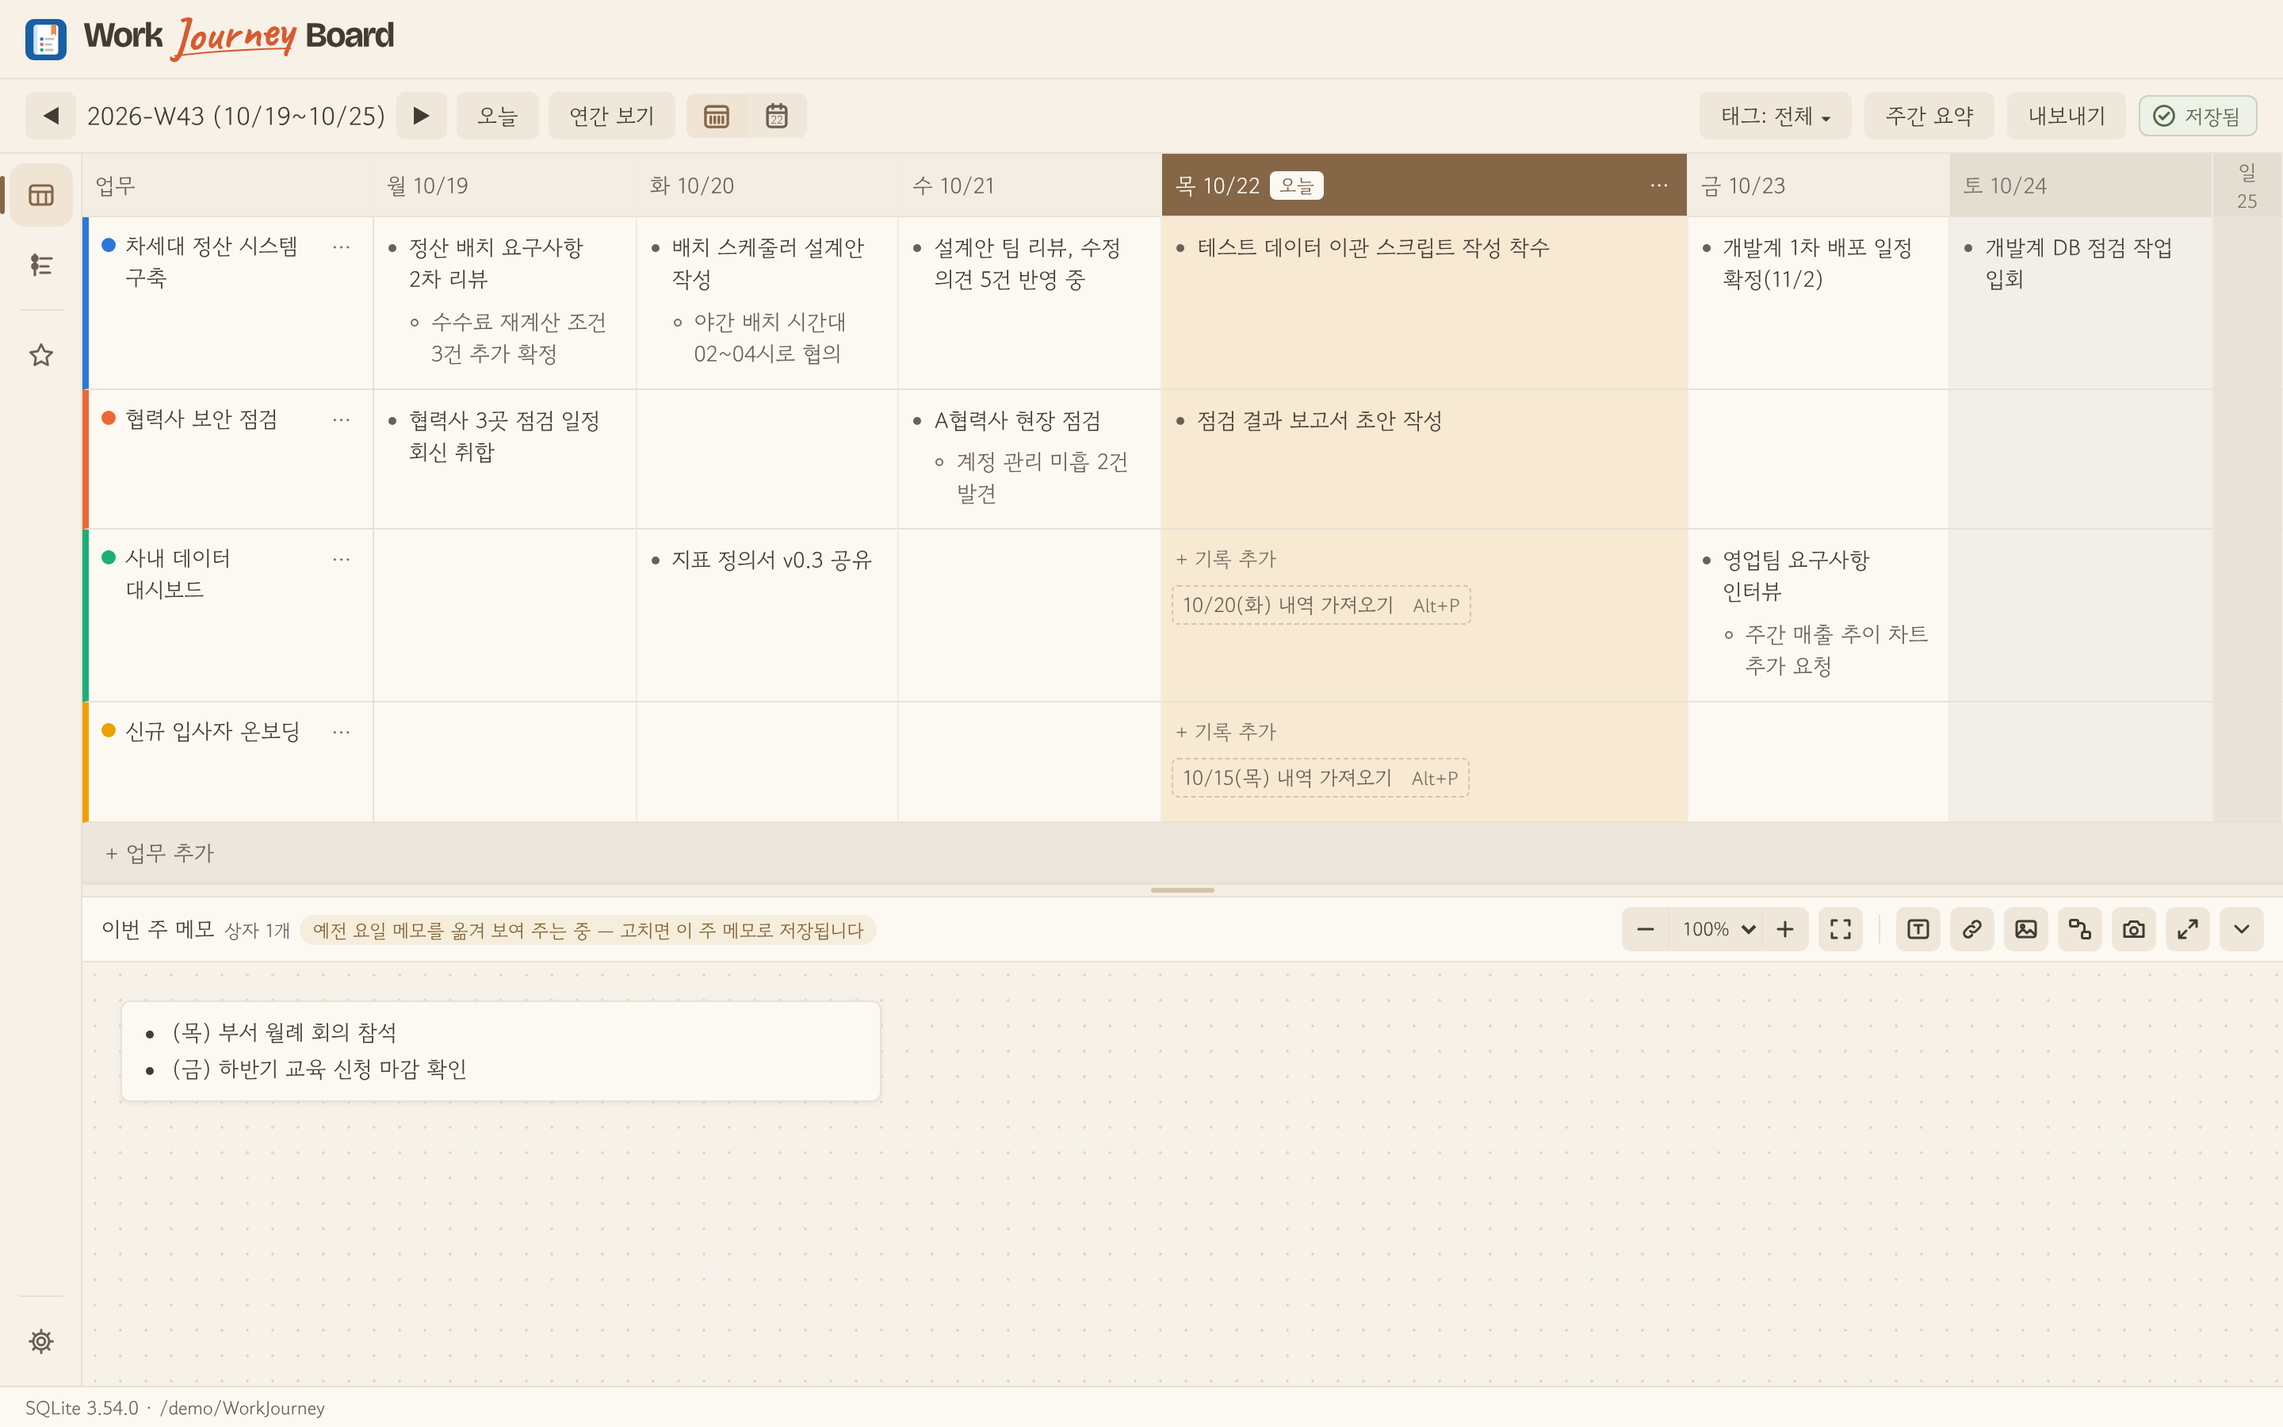
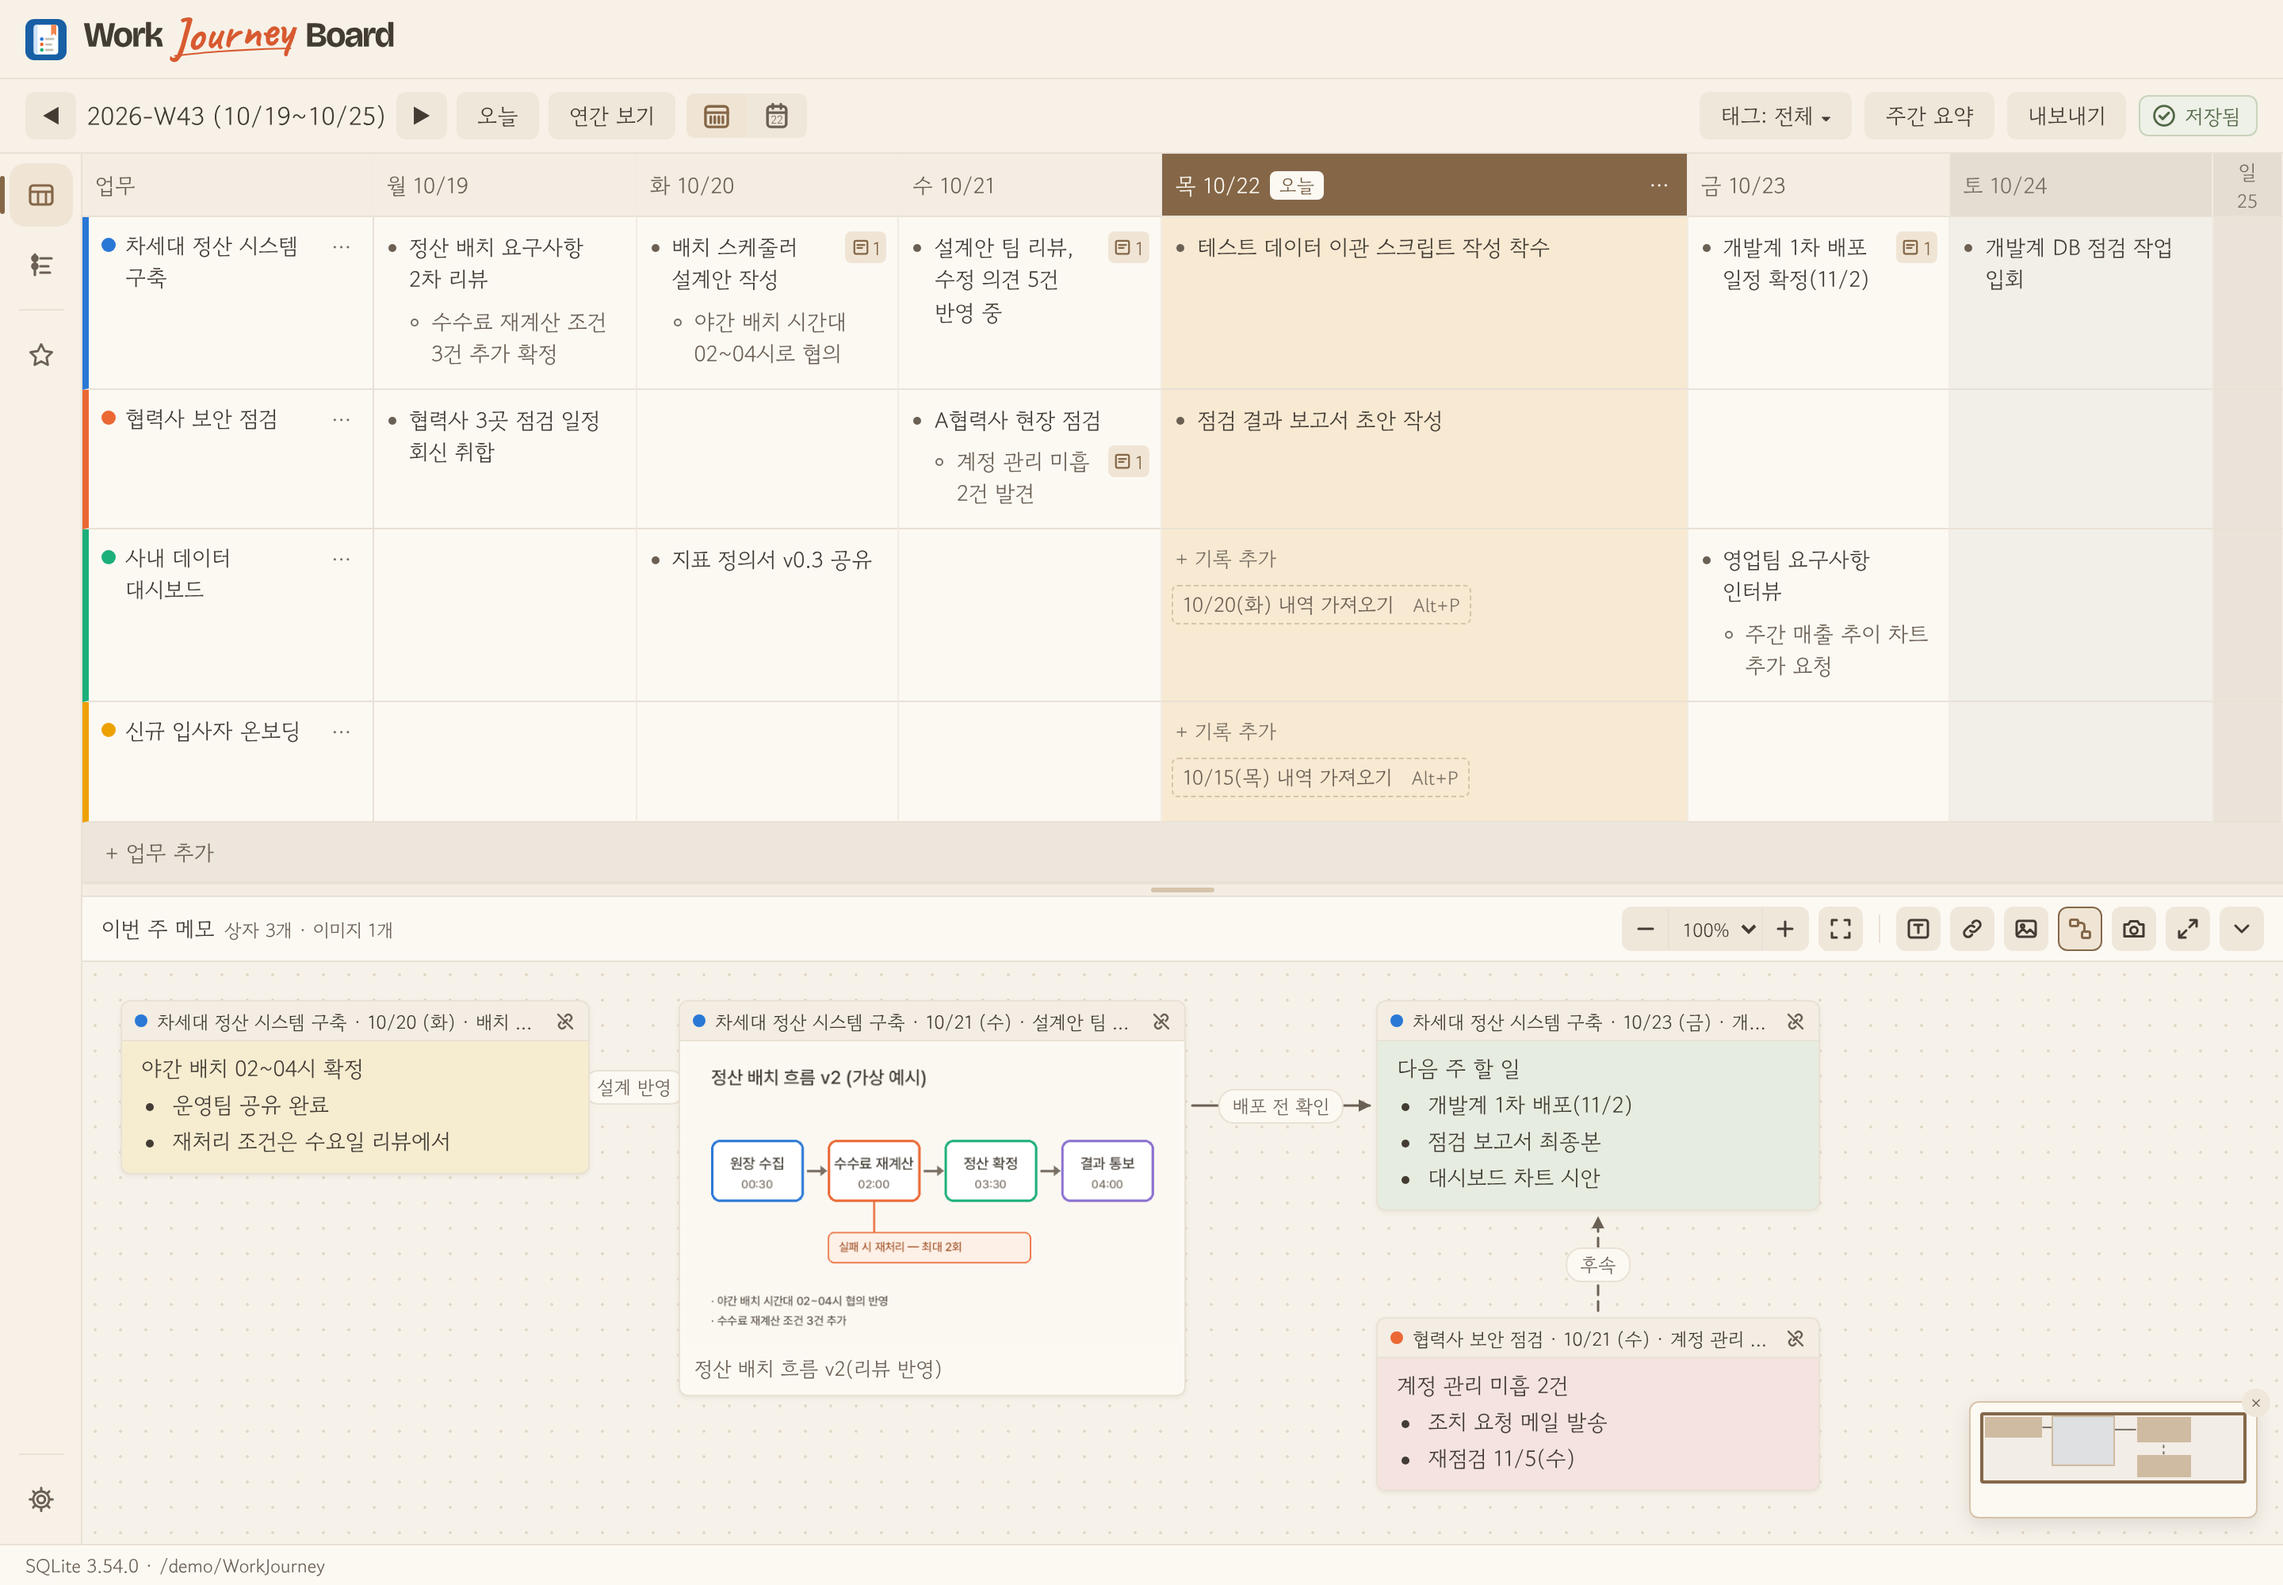
docs: README 머리(아이콘 위·타이틀 아래 1.5배)·대표 화면을 메모 보드(업무 연결·이미지 메모·관계선) 예시로, 소개 사이트 내려받기 안내 개조식·관리자 권한 문구 제거
Claude-Session: https://claude.ai/code/session_01CEskZPS32ZwwyCurFibJtk

diff --git a/site/style.css b/site/style.css
@@ -4,7 +4,7 @@
 body{margin:0;background:var(--paper);color:var(--ink);font-family:var(--sans);font-size:16px;line-height:1.7;word-break:keep-all;overflow-wrap:anywhere}
 a{color:inherit;text-decoration:none}button{font:inherit}img{display:block;max-width:100%}p,h1,h2,h3{margin:0}h1,h2,h3,strong,b{font-weight:400}button,a{-webkit-tap-highlight-color:transparent}a:focus-visible,button:focus-visible{outline:2px solid #856748;outline-offset:4px}.wrap{width:min(100% - 96px,1260px);margin-inline:auto}.skip-link{position:fixed;left:16px;top:-80px;background:#fff;padding:10px 16px;z-index:100}.skip-link:focus{top:12px}
 .site-header{height:94px;border-bottom:1px solid rgba(121,108,91,.13);background:var(--paper)}.header-inner{height:100%;display:flex;align-items:center;justify-content:space-between;gap:24px}.brand{display:flex;align-items:center;gap:12px;flex-shrink:0}.brand-icon{width:38px;height:38px}.brand-wordmark{width:198px;height:auto}.header-nav{display:flex;align-items:center;gap:34px;font-size:13px}.nav-link{color:#6e655c;transition:color .16s}.nav-link:hover,.text-link:hover{color:var(--clay)}.button{display:inline-flex;justify-content:center;align-items:center;gap:24px;border-radius:5px;white-space:nowrap;transition:background .18s,color .18s,transform .18s}.button span{font-family:var(--serif);font-size:18px}.button:hover{transform:translateY(-2px)}.button-small{background:#eae0d1;padding:10px 16px;font-size:13px}.button-small:hover{background:#dfd1bd}.button-primary{background:#775a43;color:#fffaf3;padding:16px 21px;font-size:14px}.button-primary:hover{background:#5f4737}.text-link{display:inline-flex;gap:12px;align-items:center;color:#635b52;font-size:14px;border-bottom:1px solid #d4c9b9;padding-bottom:5px;transition:color .18s,border-color .18s}.text-link:hover{border-color:var(--clay)}
-.hero{min-height:733px;display:grid;grid-template-columns:.9fr 1.15fr;align-items:center;gap:60px;padding-top:76px;padding-bottom:105px}.hero-copy{padding-bottom:5px}.eyebrow{display:flex;align-items:center;gap:10px;font-size:12px;letter-spacing:.025em;color:#8b7868}.eyebrow-dot,.tiny-dot{width:7px;height:7px;border-radius:50%;background:#ba8567;display:inline-block;flex-shrink:0}.hero h1{font-size:clamp(40px,4.2vw,61px);line-height:1.3;letter-spacing:-.055em;margin:27px 0 24px}.hero h1 em,.section-heading h2 em,.reflect-copy h2 em,.privacy-heading h2 em,.closing h2 em{font-style:normal;color:var(--clay)}.hero-description{font-size:16px;line-height:2;color:#6c655b}.hero-actions{display:flex;align-items:center;gap:28px;margin-top:39px;flex-wrap:wrap}.download-caption{display:flex;align-items:center;gap:8px;margin-top:22px;color:#8a8074;font-size:12px}.tiny-dot{width:5px;height:5px;background:#a4a994}.caption-divider{color:#c5bbae}
+.hero{min-height:733px;display:grid;grid-template-columns:.9fr 1.15fr;align-items:center;gap:60px;padding-top:76px;padding-bottom:105px}.hero-copy{padding-bottom:5px}.eyebrow{display:flex;align-items:center;gap:10px;font-size:12px;letter-spacing:.025em;color:#8b7868}.eyebrow-dot,.tiny-dot{width:7px;height:7px;border-radius:50%;background:#ba8567;display:inline-block;flex-shrink:0}.hero h1{font-size:clamp(40px,4.2vw,61px);line-height:1.3;letter-spacing:-.055em;margin:27px 0 24px}.hero h1 em,.section-heading h2 em,.reflect-copy h2 em,.privacy-heading h2 em,.closing h2 em{font-style:normal;color:var(--clay)}.hero-description{font-size:16px;line-height:2;color:#6c655b}.hero-actions{display:flex;align-items:center;gap:28px;margin-top:39px;flex-wrap:wrap}.download-caption{display:flex;flex-direction:column;gap:6px;margin:22px 0 0;padding:0;list-style:none;color:#8a8074;font-size:12px}.download-caption li{display:flex;align-items:center;gap:8px}.download-caption li::before{content:"";width:5px;height:5px;border-radius:50%;background:#a4a994;flex-shrink:0}.tiny-dot{width:5px;height:5px;background:#a4a994}.caption-divider{color:#c5bbae}
 .hero-art{position:relative;padding:42px 0 37px 26px;min-width:0}.hero-art:before{content:'';position:absolute;inset:0 0 0 28px;background:#f1e9dc;border-radius:47% 46% 3% 3% / 26% 26% 2% 2%;z-index:-1}.hero-art-note{position:absolute;z-index:2}.top-note{top:6px;right:20px;color:#a8795c;display:flex;align-items:center;gap:8px}.handwritten{font:italic 20px var(--serif);letter-spacing:-.03em}.hand-arrow{font-family:var(--serif);font-size:27px}.bottom-note{left:-10px;bottom:8px;display:flex;align-items:center;gap:13px;background:#fcf9f3;box-shadow:0 8px 28px rgba(67,55,41,.09);padding:14px 20px;border-radius:4px;font-size:12px;line-height:1.7;color:#766b5e}.bottom-note b{color:#4d443b}.note-star{font-size:26px;color:#bb8a66}.mock-caption{text-align:right;font-size:10px;color:#8d8174;position:absolute;bottom:14px;right:16px}
 .app-window{background:#fdfbf7;border:1px solid #e9e1d5;border-radius:9px;overflow:hidden;box-shadow:0 25px 70px rgba(75,57,37,.13),0 4px 14px rgba(75,57,37,.04)}.mock-titlebar{height:44px;display:flex;align-items:center;justify-content:space-between;padding:0 16px;background:#f8f3eb;border-bottom:1px solid #eee7dd}.mock-brand{display:flex;align-items:center;gap:7px;font:11px var(--serif);color:#4c443c}.window-controls{display:flex;gap:5px}.window-controls i{width:6px;height:6px;border-radius:50%;background:#d7cec1}.mock-toolbar{display:flex;justify-content:space-between;align-items:end;padding:19px 18px 14px}.mock-toolbar div{display:grid;gap:2px}.mock-kicker{font:9px var(--serif);letter-spacing:.13em;color:#a49685}.mock-toolbar strong{font-size:15px}.mock-range{font:10px var(--serif);color:#8a7c6c}.mock-calendar{display:grid;grid-template-columns:1.05fr repeat(2,1fr) 1.22fr repeat(2,1fr);padding:0 18px;color:#756b5e}.mock-label,.mock-day{height:36px;display:flex;align-items:center;justify-content:center;gap:4px;font-size:10px;border-bottom:1px solid #e9e2d7}.mock-label{justify-content:flex-start}.mock-day b{font-weight:400}.mock-day small{font:10px var(--serif)}.mock-day.current{color:#8c6545}.mock-day.current span{font-size:8px;color:#a67b5a}.mock-task{display:flex;gap:6px;align-items:flex-start;padding:14px 4px 9px 0;font-size:10px;line-height:1.5;border-bottom:1px solid #eee8df;color:#4b453c}.mock-task small{font-size:8px;color:#a29789}.point{display:inline-block;width:6px;height:6px;flex-shrink:0;border-radius:50%;margin-top:.5em}.p-blue{background:#758da7}.p-orange{background:#c98b6b}.p-green{background:#88a18b}.mock-cell{font-size:9px;line-height:1.6;min-height:76px;padding:13px 5px 8px;border-bottom:1px solid #eee8df;border-left:1px solid #f4f0e9}.mock-cell.selected{background:#f5ede1;color:#514a40}.mock-chip{display:block;margin-top:6px;color:#a28d76;font-size:8px;font-style:normal}.mock-memo{padding:15px 18px 9px}.mock-memo-head{display:flex;justify-content:space-between;color:#8d8172;font-size:10px}.mock-memo-card{margin-top:8px;padding:10px 12px;background:#f7f1e8;display:grid;gap:2px;border-radius:3px}.mock-memo-card small{color:#9e8a74;font-size:8px}.mock-memo-card strong{font-size:10px}.mock-memo-card span{font-size:9px;color:#8c8175}.mock-status{display:flex;justify-content:space-between;border-top:1px solid #f1ece4;padding:8px 18px;color:#aaa093;font-size:8px}.mock-status i{display:inline-block;background:#99ad97;width:5px;height:5px;border-radius:50%;margin-right:3px}
 .intro-band{border-top:1px solid var(--line);border-bottom:1px solid var(--line);background:#f5f0e7}.intro-inner{display:grid;grid-template-columns:1fr 1.75fr 1fr;align-items:center;gap:32px;padding-top:50px;padding-bottom:50px}.section-number,.micro-label{font:10px var(--serif);letter-spacing:.13em;color:#9a8c7b}.section-number span{display:block;color:#b58668;font-size:20px;margin-top:7px}.intro-inner>p:nth-child(2){font-size:20px;line-height:1.65;letter-spacing:-.03em;color:#777064}.intro-inner strong{color:#3c382f}.intro-aside{font-size:13px;line-height:1.8;color:#92877a}

diff --git a/site/index.html b/site/index.html
@@ -39,7 +39,7 @@
           <a class="button button-quiet" href="https://github.com/chs2147/work-journey-board/releases/latest">오프라인 설치판 <span aria-hidden="true">↗</span></a>
           <a class="text-link" href="#how-it-works">어떻게 사용하는지 보기 <span aria-hidden="true">↓</span></a>
         </div>
-        <p class="download-caption"><span class="tiny-dot"></span> Windows 10·11 데스크톱 앱 <span class="caption-divider">·</span> 관리자 권한 없이 설치 <span class="caption-divider">·</span> 무료 · 오프라인 설치판은 인터넷이 막힌 PC용</p>
+        <ul class="download-caption"><li>Windows 10·11 데스크톱 앱</li><li>무료로 사용</li><li>오프라인 설치판은 인터넷이 막힌 PC용</li></ul>
       </div>
       <div class="hero-art" aria-label="가상 업무 기록을 활용한 주간 보드 화면 예시">
         <div class="hero-art-note top-note"><span class="handwritten">a little, every day</span><span class="hand-arrow" aria-hidden="true">↘</span></div>
@@ -86,7 +86,7 @@
 
     <section class="feature-section wrap" id="features" aria-labelledby="features-title">
       <div class="section-heading"><div><p class="eyebrow section-eyebrow"><span class="section-index">04</span> IN THE APP</p><h2 id="features-title">실제 화면으로<br><em>만나보세요.</em></h2></div><p class="section-description">Work Journey Board의 핵심 기능 세 가지입니다. 화면 속 기록은 모두 가상의 예시예요.</p></div>
-      <article class="feature-row"><div class="feature-copy"><span class="feature-num">01 · 기록</span><h3>매일 2분, 키보드만으로</h3><p>요일과 업무가 만나는 칸에 개조식으로 적습니다. Enter로 다음 줄, Tab으로 세부 항목, ↓로 다음 업무. 오늘 열은 늘 눈에 띄고, 비어 있는 칸은 직전 기록을 한 번에 가져올 수 있어요.</p><div class="benefit-line"><span>중요 표시</span><span>매주 반복</span><span>주간 메모 보드</span></div></div><figure class="feature-shot"><img src="./shots/board.webp" alt="주간 보드 — 오늘 열에 업무를 기록하는 화면(시그니처 테마, 가상 기록)" width="1600" height="1000" loading="lazy"></figure></article>
+      <article class="feature-row"><div class="feature-copy"><span class="feature-num">01 · 기록</span><h3>매일 2분, 키보드만으로</h3><p>요일과 업무가 만나는 칸에 개조식으로 적습니다. Enter로 다음 줄, Tab으로 세부 항목, ↓로 다음 업무. 오늘 열은 늘 눈에 띄고, 비어 있는 칸은 직전 기록을 한 번에 가져올 수 있어요.</p><div class="benefit-line"><span>중요 표시</span><span>매주 반복</span><span>주간 메모 보드</span></div></div><figure class="feature-shot"><img src="./shots/board.webp" alt="주간 보드와 이번 주 메모 보드 — 업무 연결 메모·이미지 메모·관계선(시그니처 테마, 가상 기록)" width="1600" height="1111" loading="lazy"></figure></article>
       <article class="feature-row feature-row-flip"><div class="feature-copy"><span class="feature-num">02 · 정리</span><h3>쓰기만 하면 주간 보고가 나옵니다</h3><p>한 주의 기록이 업무별·요일별로 자동 정리됩니다. 그대로 복사하거나 고쳐 쓰고, 사내 AI 도구에 붙여 넣을 지시문도 함께. 여러 주를 엑셀 2시트로 한 번에 내보냅니다.</p><div class="benefit-line"><span>자동 집계</span><span>AI 다듬기 지시문</span><span>엑셀 내보내기</span></div></div><figure class="feature-shot"><img src="./shots/summary.webp" alt="주간 요약 패널 — 업무별·요일별 자동 집계(가상 기록)" width="1600" height="1000" loading="lazy"></figure></article>
       <article class="feature-row"><div class="feature-copy"><span class="feature-num">03 · 돌아보기</span><h3>지나온 일이 한눈에</h3><p>업무 하나를 고르면 시작부터 지금까지의 경과가 주 단위로 이어집니다. 경과 지도와 활동 히트맵으로 쉬었던 기간과 몰렸던 주가 보여요.</p><div class="benefit-line"><span>경과 타임라인</span><span>경과 지도</span><span>활동 히트맵</span></div></div><figure class="feature-shot"><img src="./shots/insights.webp" alt="인사이트 — 업무별 경과 타임라인과 경과 지도(가상 기록)" width="1600" height="1000" loading="lazy"></figure></article>
     </section>
